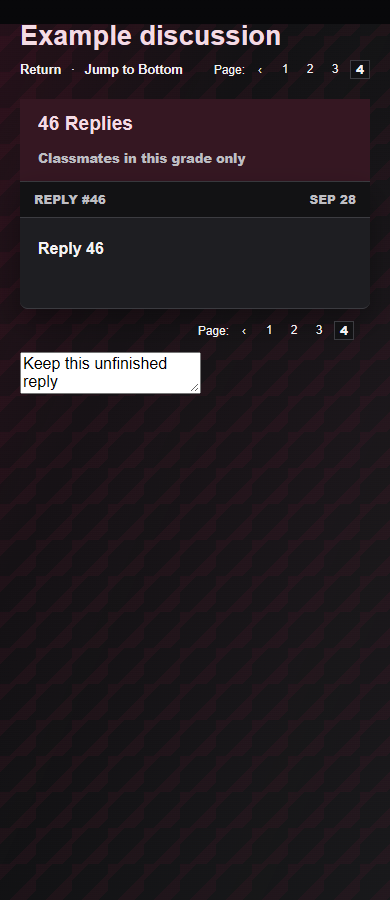
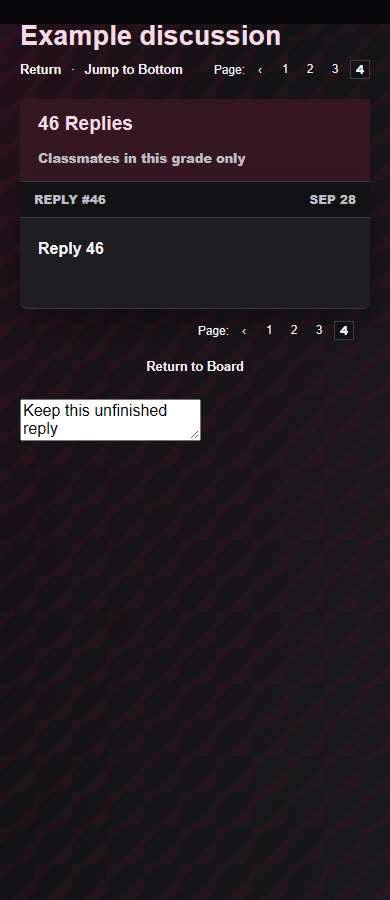
Add next-page and return-to-board thread buttons

Changed region(s): [[0.0308, 0.3733, 0.6154, 0.4978]]

diff --git a/work/verify-thread-reply-pages.js b/work/verify-thread-reply-pages.js
@@ -18,13 +18,17 @@ const fs=require("fs"),assert=require("assert/strict"),{chromium}=require("playw
  assert.equal(await page.locator('.thread-reply-list nav[aria-label="Reply pages top"]').count(),0);
  assert.equal(await page.locator('.thread-top-pages nav').count(),1);
  assert.equal(await page.locator(".thread-reply-post").count(),15);
+ assert.equal(await page.locator('.thread-return-board').innerText(),'Return to Board');
+ assert.equal(await page.locator('.thread-return-board').getAttribute('data-action'),'back');
  await page.locator("#replyMessage").fill("Keep this unfinished reply");
- await page.getByRole("button",{name:"Next page",exact:true}).first().click();
+ await page.getByRole("button",{name:"Next Page »",exact:true}).click();
  assert.match(await page.locator(".thread-reply-post").first().innerText(),/Reply #16/i);
  assert.equal(await page.locator('.thread-top-pages [aria-current="page"]').innerText(),'2');
  assert.equal(await page.locator('.thread-reply-list [aria-current="page"]').innerText(),'2');
  await page.getByRole("button",{name:"Page 4",exact:true}).first().click();assert.equal(await page.locator(".thread-reply-post").count(),1);
  assert.match(await page.locator(".thread-reply-post").innerText(),/Reply #46/i);
+ assert.equal(await page.locator('.thread-next-page').count(),0);
+ assert.equal(await page.locator('.thread-return-board').count(),1);
  assert.equal(await page.locator("#replyMessage").inputValue(),"Keep this unfinished reply");
  await page.screenshot({path:"work/thread-reply-pages-"+width+".png",fullPage:true});
  assert(await page.evaluate(()=>document.documentElement.scrollWidth<=innerWidth));

diff --git a/styles.css b/styles.css
@@ -2391,7 +2391,13 @@ body[data-theme="night"] .corner-grade-bell svg { color:#fff; }
 .thread-reply-pages button[aria-current="page"] { border-color:var(--border); background:var(--paper); font-weight:800; }
 .thread-reply-pages button:hover { text-decoration:underline; }
 .thread-reply-pages button:focus-visible { outline:2px solid var(--blue); outline-offset:2px; }
-.thread-reply-list > .thread-reply-pages { padding:12px 16px; }
+.thread-bottom-navigation { display:grid; grid-template-columns:1fr auto 1fr; align-items:center; gap:14px 12px; padding:12px 16px 20px; }
+.thread-bottom-navigation .thread-reply-pages { grid-column:3; grid-row:1; padding:0; }
+.thread-next-page { grid-column:2; grid-row:1; justify-self:center; padding:2px 8px; border:1px solid var(--border); border-radius:20px; background:var(--paper); color:var(--ink); font:inherit; font-size:.75rem; cursor:pointer; }
+.thread-return-board { grid-column:1 / -1; grid-row:2; justify-self:center; padding:5px 8px; border:0; background:none; color:var(--ink); font:inherit; font-size:.8rem; font-weight:700; cursor:pointer; }
+.thread-next-page:hover, .thread-return-board:hover { text-decoration:underline; }
+.thread-next-page:focus-visible, .thread-return-board:focus-visible { outline:2px solid var(--blue); outline-offset:3px; }
+@media(max-width:600px) { .thread-bottom-navigation { grid-template-columns:auto 1fr; } .thread-next-page { grid-column:1; } .thread-bottom-navigation .thread-reply-pages { grid-column:2; } }
 .forum-reply-heading { scroll-margin-top:20px; }
 
 .forum-rules-card {

diff --git a/app.js b/app.js
@@ -3176,7 +3176,12 @@ function refreshThreadReplyTopPager(thread) {
 
 function renderThreadReplyList(thread) {
   const { replies, pages, page, start, visible } = threadReplyPageData(thread);
-  return `<div class="forum-reply-heading" tabindex="-1"><h3>${escapeHtml(`${replies.length} ${replies.length === 1 ? "Reply" : "Replies"}`)}</h3><span>Classmates in this grade only</span></div>${visible.length ? visible.map((reply,index)=>renderThreadReply(reply,start+index+1)).join("") : emptyCard("No replies yet. Ask the first question or add a helpful response.")}${renderThreadReplyPager(thread, "bottom")}`;
+  const footer = `<div class="thread-bottom-navigation">
+    ${page < pages ? `<button type="button" class="thread-next-page" data-action="threadReplyPage" data-thread-id="${escapeHtml(thread.id)}" data-page="${page + 1}">Next Page »</button>` : ""}
+    ${renderThreadReplyPager(thread, "bottom")}
+    <button type="button" class="thread-return-board" data-action="back">Return to Board</button>
+  </div>`;
+  return `<div class="forum-reply-heading" tabindex="-1"><h3>${escapeHtml(`${replies.length} ${replies.length === 1 ? "Reply" : "Replies"}`)}</h3><span>Classmates in this grade only</span></div>${visible.length ? visible.map((reply,index)=>renderThreadReply(reply,start+index+1)).join("") : emptyCard("No replies yet. Ask the first question or add a helpful response.")}${footer}`;
 }
 
 function renderThreadDetail(threadId) {

diff --git a/index.html b/index.html
@@ -11,7 +11,7 @@
   <link rel="icon" type="image/png" sizes="16x16" href="/favicon-16x16.png?v=20260727-shield2">
   <link rel="apple-touch-icon" sizes="180x180" href="/apple-touch-icon.png?v=20260727-shield2">
   <link rel="manifest" href="/site.webmanifest?v=20260901-single-client-v1">
-  <link rel="stylesheet" href="styles.css?v=20260928-topic-pages-v66">
+  <link rel="stylesheet" href="styles.css?v=20260928-thread-footer-v67">
   <link rel="stylesheet" href="launchpad-scenes.css?v=20260928-holiday-motion-v46">
   <link rel="stylesheet" href="scene-frame-fit.css?v=20260927-patriotic-v4">
   <link rel="stylesheet" href="collectible-shelf.css?v=20260927-ten-shelves-v21">
@@ -26,7 +26,7 @@
   <script src="launchpad-scenes.js?v=20260927-patriotic-v45"></script>
   <script src="profile-banners.js?v=20260927-matching-sets-v9"></script>
 <script src="collectible-shelf.js?v=20260927-ten-shelves-v43"></script>
-  <script src="app.js?v=20260928-topic-pages-v92"></script>
+  <script src="app.js?v=20260928-thread-footer-v93"></script>
   <script src="colt-assistant.js?v=20260905-lazy-artwork-v2"></script>
   <script src="colt-radio.js?v=20260927-country-afropulse-v27"></script>
   <script src="launchpad-colt.js?v=20260908-bathing-panel-v9"></script>
